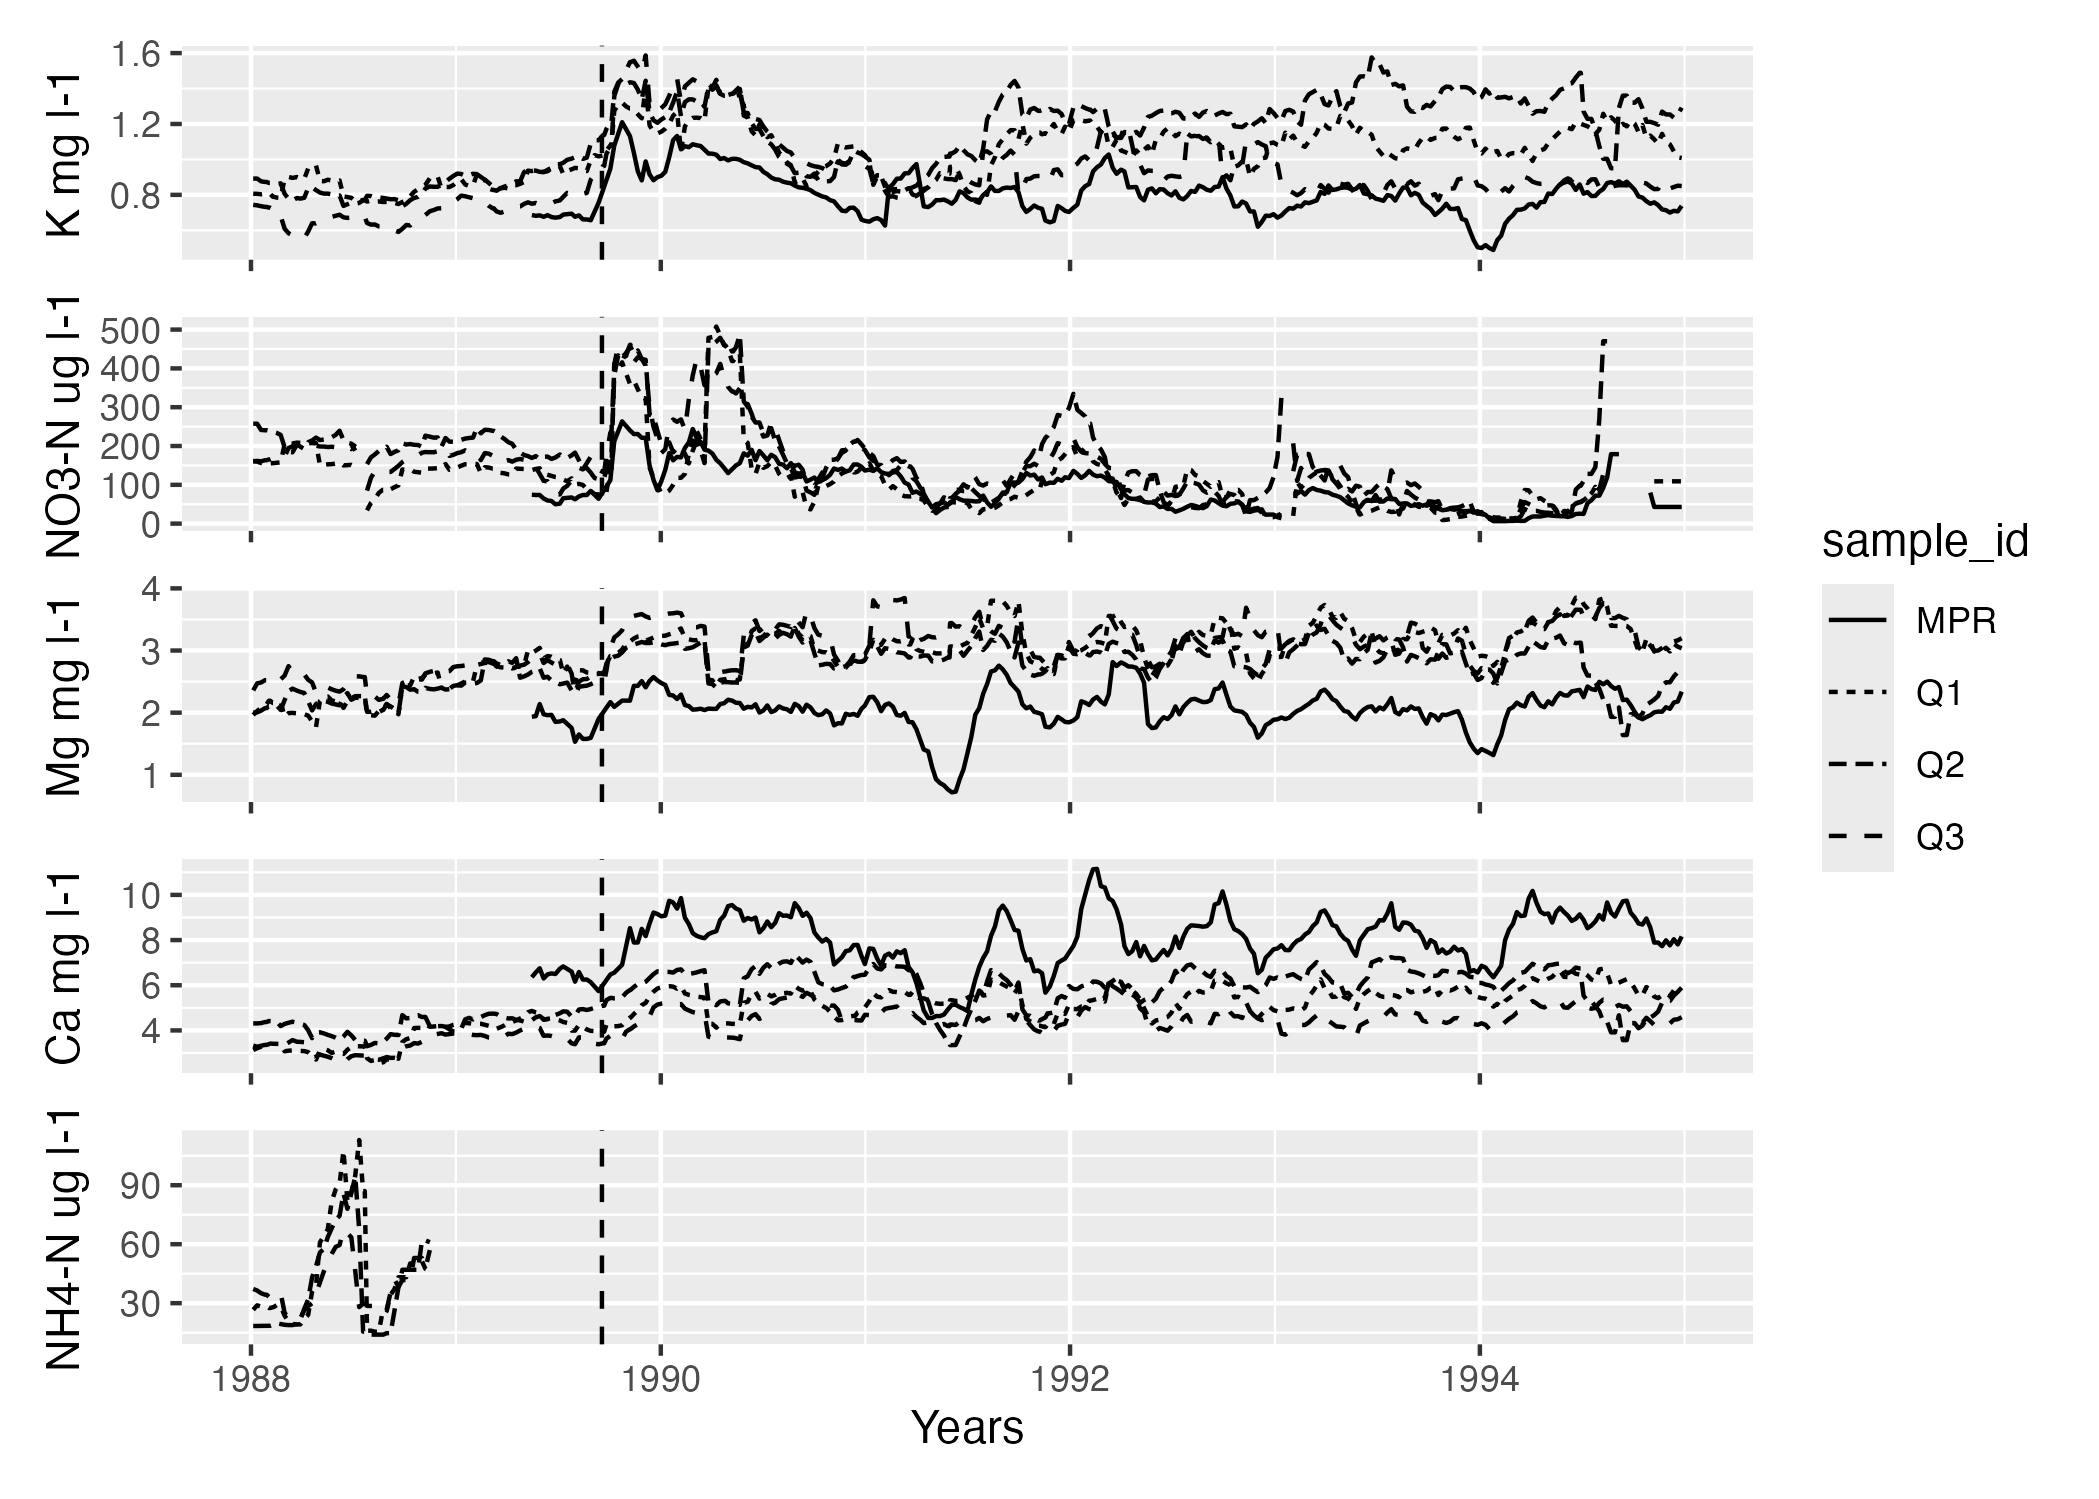
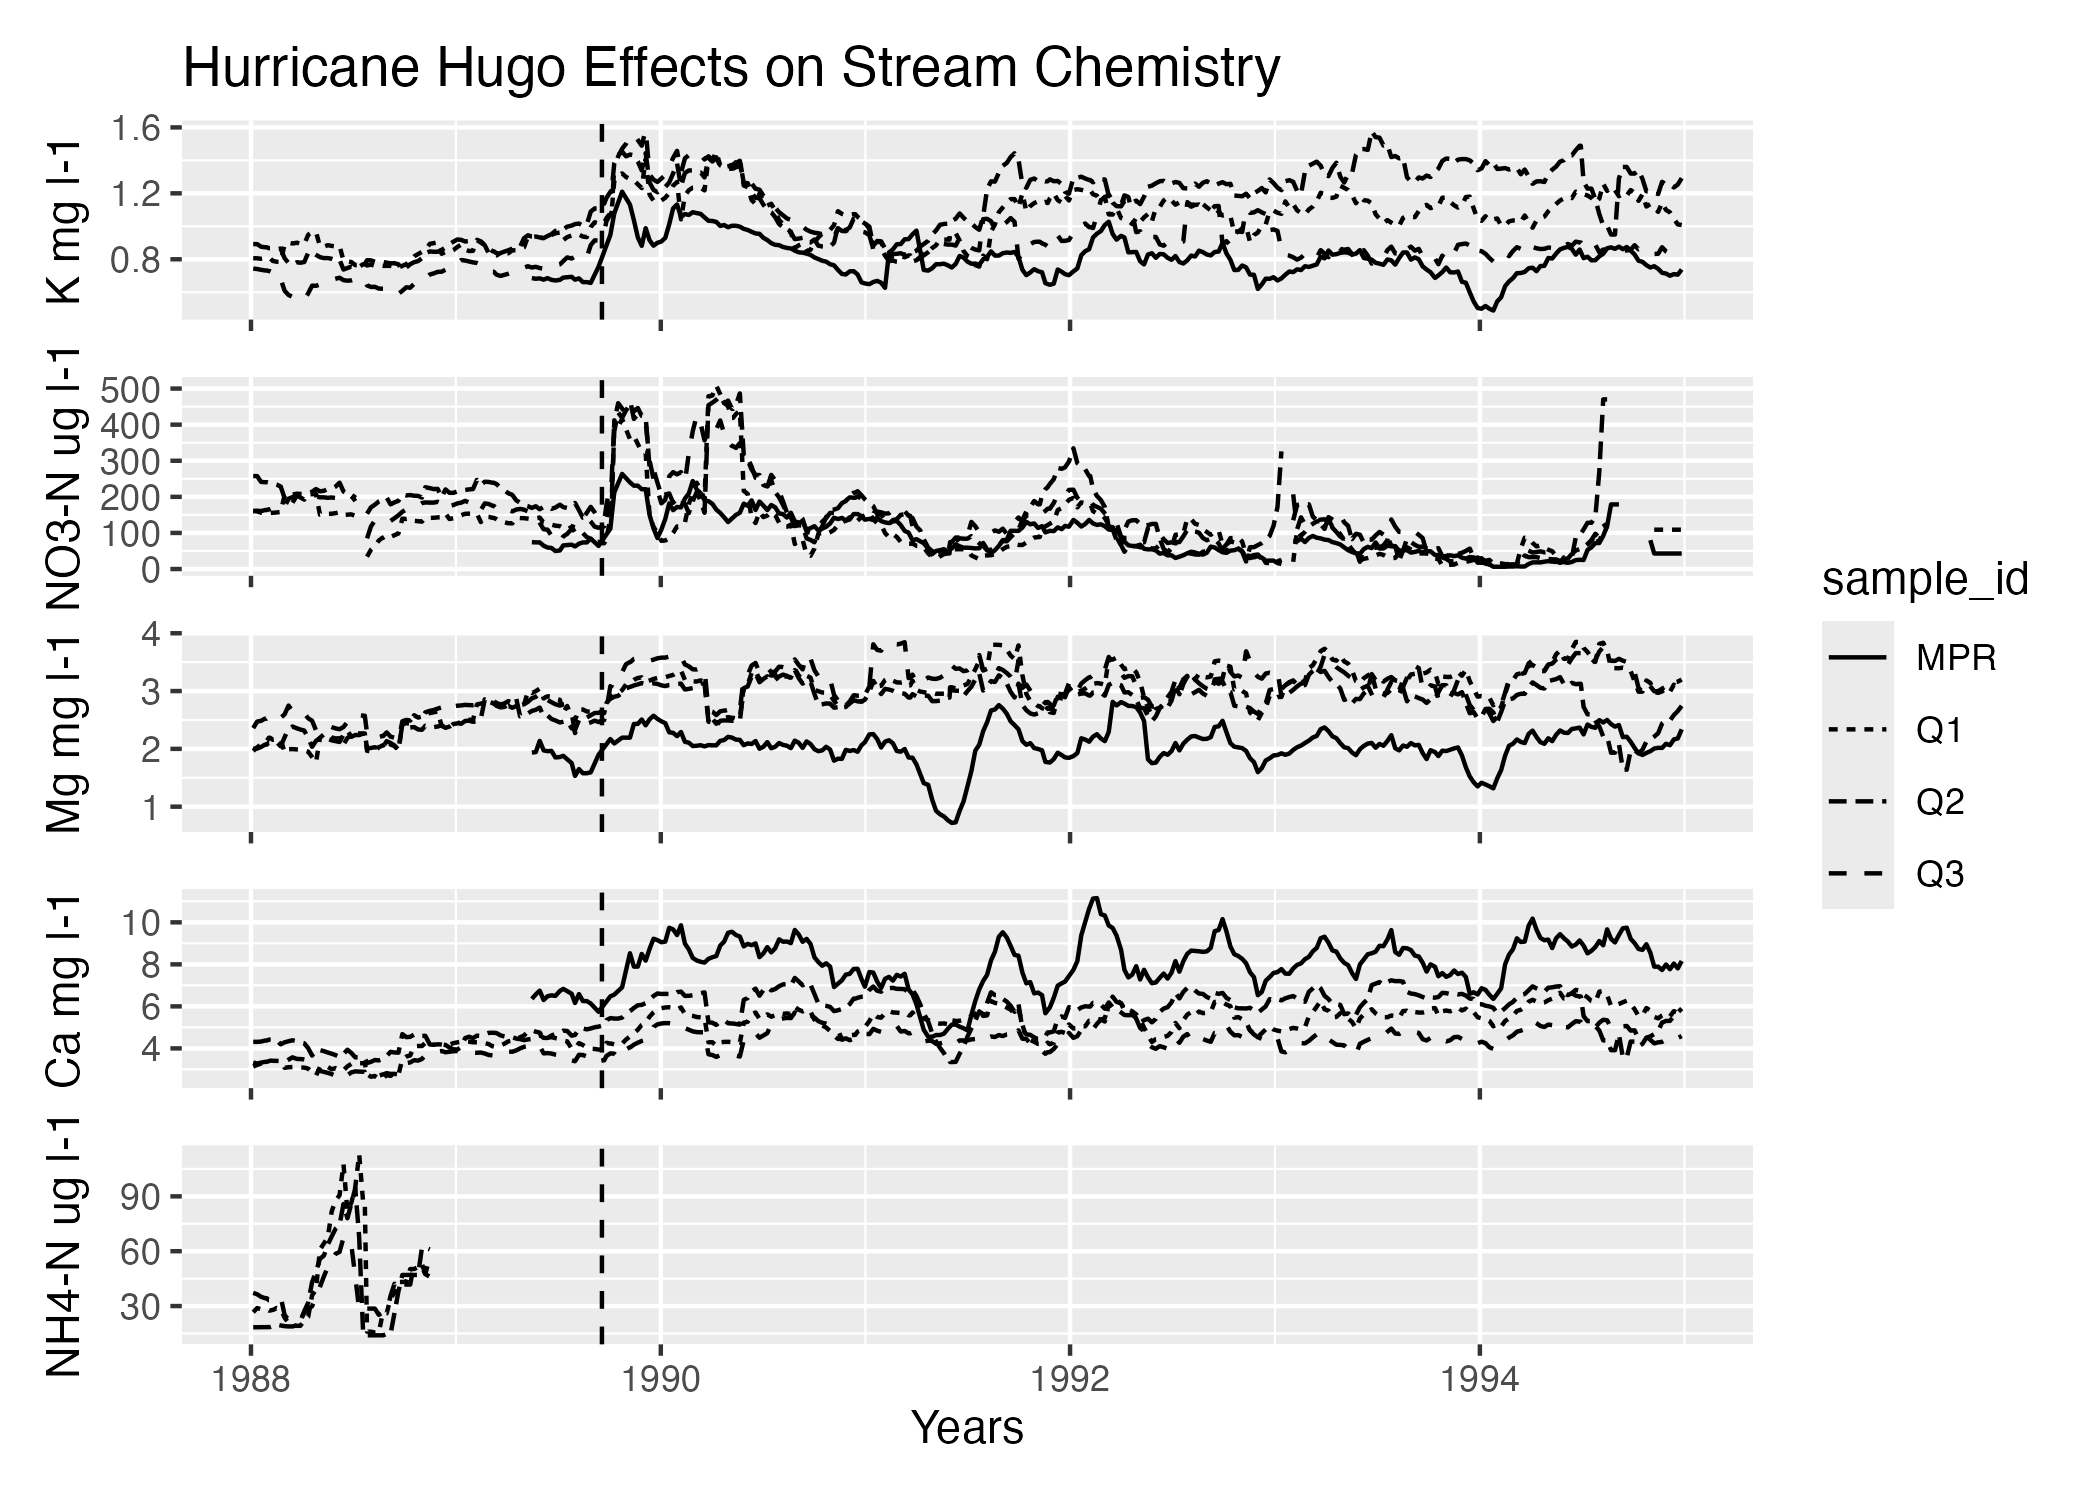
checking lubridate

diff --git a/docs/paper.html b/docs/paper.html
@@ -122,16 +122,71 @@ pre > code.sourceCode > span > a:first-child::before { text-decoration: underlin
 </section>
 <section id="results" class="level1">
 <h1>Results</h1>
+<p>NEED TO FIGURE OUT HOW TO MAKE MY GRAPH APPEAR</p>
 <div class="cell">
-<div class="sourceCode cell-code" id="cb2"><pre class="sourceCode r code-with-copy"><code class="sourceCode r"><span id="cb2-1"><a href="#cb2-1" aria-hidden="true" tabindex="-1"></a><span class="co">#show graph in quarto doc</span></span>
-<span id="cb2-2"><a href="#cb2-2" aria-hidden="true" tabindex="-1"></a><span class="fu">source</span>(here<span class="sc">::</span><span class="fu">here</span>(<span class="st">"R"</span>, <span class="st">"ggplotting.R"</span>))</span>
+<div class="sourceCode cell-code" id="cb2"><pre class="sourceCode r code-with-copy"><code class="sourceCode r"><span id="cb2-1"><a href="#cb2-1" aria-hidden="true" tabindex="-1"></a><span class="co">#creating a hurricane line</span></span>
+<span id="cb2-2"><a href="#cb2-2" aria-hidden="true" tabindex="-1"></a>hurricane <span class="ot">&lt;-</span> <span class="fu">as.Date</span>(<span class="st">"1989-09-18"</span>)</span>
 <span id="cb2-3"><a href="#cb2-3" aria-hidden="true" tabindex="-1"></a></span>
-<span id="cb2-4"><a href="#cb2-4" aria-hidden="true" tabindex="-1"></a>fig3 <span class="ot">&lt;-</span> k_plot <span class="sc">/</span> no3_n_plot <span class="sc">/</span> mg_plot <span class="sc">/</span> ca_plot <span class="sc">/</span> nh4_n_plot <span class="sc">+</span></span>
-<span id="cb2-5"><a href="#cb2-5" aria-hidden="true" tabindex="-1"></a>  <span class="fu">plot_layout</span>(<span class="at">guides =</span> <span class="st">'collect'</span>)</span>
-<span id="cb2-6"><a href="#cb2-6" aria-hidden="true" tabindex="-1"></a></span>
-<span id="cb2-7"><a href="#cb2-7" aria-hidden="true" tabindex="-1"></a><span class="fu">ggsave</span>(here<span class="sc">::</span><span class="fu">here</span>(<span class="st">"figs"</span>, <span class="st">"fig3.jpg"</span>))</span></code><button title="Copy to Clipboard" class="code-copy-button"><i class="bi"></i></button></pre></div>
+<span id="cb2-4"><a href="#cb2-4" aria-hidden="true" tabindex="-1"></a><span class="co"># ggplot of the moving  average k </span></span>
+<span id="cb2-5"><a href="#cb2-5" aria-hidden="true" tabindex="-1"></a>k_plot <span class="ot">&lt;-</span> <span class="fu">ggplot</span>(<span class="at">data =</span> mov_avg_k, <span class="fu">aes</span>(<span class="at">x =</span> sample_date, <span class="at">y =</span> mov_avg_k, <span class="at">linetype =</span> sample_id)) <span class="sc">+</span></span>
+<span id="cb2-6"><a href="#cb2-6" aria-hidden="true" tabindex="-1"></a>  <span class="fu">geom_line</span>() <span class="sc">+</span></span>
+<span id="cb2-7"><a href="#cb2-7" aria-hidden="true" tabindex="-1"></a>  <span class="fu">geom_vline</span>(<span class="at">xintercept =</span> hurricane, <span class="at">linetype =</span> <span class="st">"dashed"</span>) <span class="sc">+</span></span>
+<span id="cb2-8"><a href="#cb2-8" aria-hidden="true" tabindex="-1"></a>  <span class="fu">theme</span>(<span class="at">axis.title.x =</span> <span class="fu">element_blank</span>(),</span>
+<span id="cb2-9"><a href="#cb2-9" aria-hidden="true" tabindex="-1"></a>        <span class="at">axis.text.x =</span> <span class="fu">element_blank</span>()) <span class="sc">+</span></span>
+<span id="cb2-10"><a href="#cb2-10" aria-hidden="true" tabindex="-1"></a>  <span class="fu">labs</span>(<span class="at">title =</span> <span class="st">"Hurricane Hugo Effects on Stream Chemistry"</span>,</span>
+<span id="cb2-11"><a href="#cb2-11" aria-hidden="true" tabindex="-1"></a>       <span class="at">y =</span> <span class="st">"K mg |-1"</span>)</span>
+<span id="cb2-12"><a href="#cb2-12" aria-hidden="true" tabindex="-1"></a></span>
+<span id="cb2-13"><a href="#cb2-13" aria-hidden="true" tabindex="-1"></a><span class="co"># ggplot of the moving average NO3_N</span></span>
+<span id="cb2-14"><a href="#cb2-14" aria-hidden="true" tabindex="-1"></a>no3_n_plot <span class="ot">&lt;-</span> <span class="fu">ggplot</span>(<span class="at">data =</span> mov_avg_no3_n, <span class="fu">aes</span>(<span class="at">x =</span> sample_date, <span class="at">y =</span> mov_avg_no3_n, <span class="at">linetype =</span> sample_id)) <span class="sc">+</span></span>
+<span id="cb2-15"><a href="#cb2-15" aria-hidden="true" tabindex="-1"></a>  <span class="fu">geom_line</span>() <span class="sc">+</span></span>
+<span id="cb2-16"><a href="#cb2-16" aria-hidden="true" tabindex="-1"></a>  <span class="fu">geom_vline</span>(<span class="at">xintercept =</span> hurricane, <span class="at">linetype =</span> <span class="st">"dashed"</span>) <span class="sc">+</span></span>
+<span id="cb2-17"><a href="#cb2-17" aria-hidden="true" tabindex="-1"></a>  <span class="fu">theme</span>(<span class="at">axis.title.x =</span> <span class="fu">element_blank</span>(),</span>
+<span id="cb2-18"><a href="#cb2-18" aria-hidden="true" tabindex="-1"></a>        <span class="at">axis.text.x =</span> <span class="fu">element_blank</span>()) <span class="sc">+</span></span>
+<span id="cb2-19"><a href="#cb2-19" aria-hidden="true" tabindex="-1"></a>  <span class="fu">labs</span>(<span class="at">y =</span> <span class="st">"NO3-N ug |-1"</span>)</span>
+<span id="cb2-20"><a href="#cb2-20" aria-hidden="true" tabindex="-1"></a></span>
+<span id="cb2-21"><a href="#cb2-21" aria-hidden="true" tabindex="-1"></a><span class="co"># ggplot of the moving average NO3_N</span></span>
+<span id="cb2-22"><a href="#cb2-22" aria-hidden="true" tabindex="-1"></a>mg_plot <span class="ot">&lt;-</span> <span class="fu">ggplot</span>(<span class="at">data =</span> mov_avg_mg, <span class="fu">aes</span>(<span class="at">x =</span> sample_date, <span class="at">y =</span> mov_avg_mg, <span class="at">linetype =</span> sample_id)) <span class="sc">+</span></span>
+<span id="cb2-23"><a href="#cb2-23" aria-hidden="true" tabindex="-1"></a>  <span class="fu">geom_line</span>() <span class="sc">+</span></span>
+<span id="cb2-24"><a href="#cb2-24" aria-hidden="true" tabindex="-1"></a>  <span class="fu">geom_vline</span>(<span class="at">xintercept =</span> hurricane, <span class="at">linetype =</span> <span class="st">"dashed"</span>) <span class="sc">+</span></span>
+<span id="cb2-25"><a href="#cb2-25" aria-hidden="true" tabindex="-1"></a>  <span class="fu">theme</span>(<span class="at">axis.title.x =</span> <span class="fu">element_blank</span>(),</span>
+<span id="cb2-26"><a href="#cb2-26" aria-hidden="true" tabindex="-1"></a>        <span class="at">axis.text.x =</span> <span class="fu">element_blank</span>()) <span class="sc">+</span></span>
+<span id="cb2-27"><a href="#cb2-27" aria-hidden="true" tabindex="-1"></a>  <span class="fu">labs</span>(<span class="at">y =</span> <span class="st">"Mg mg |-1"</span>)</span>
+<span id="cb2-28"><a href="#cb2-28" aria-hidden="true" tabindex="-1"></a></span>
+<span id="cb2-29"><a href="#cb2-29" aria-hidden="true" tabindex="-1"></a><span class="co"># ggplot of the moving average NO3_N</span></span>
+<span id="cb2-30"><a href="#cb2-30" aria-hidden="true" tabindex="-1"></a>ca_plot <span class="ot">&lt;-</span> <span class="fu">ggplot</span>(<span class="at">data =</span> mov_avg_ca, <span class="fu">aes</span>(<span class="at">x =</span> sample_date, <span class="at">y =</span> mov_avg_ca, <span class="at">linetype =</span> sample_id)) <span class="sc">+</span></span>
+<span id="cb2-31"><a href="#cb2-31" aria-hidden="true" tabindex="-1"></a>  <span class="fu">geom_line</span>() <span class="sc">+</span></span>
+<span id="cb2-32"><a href="#cb2-32" aria-hidden="true" tabindex="-1"></a>  <span class="fu">geom_vline</span>(<span class="at">xintercept =</span> hurricane, <span class="at">linetype =</span> <span class="st">"dashed"</span>) <span class="sc">+</span></span>
+<span id="cb2-33"><a href="#cb2-33" aria-hidden="true" tabindex="-1"></a>  <span class="fu">theme</span>(<span class="at">axis.title.x =</span> <span class="fu">element_blank</span>(),</span>
+<span id="cb2-34"><a href="#cb2-34" aria-hidden="true" tabindex="-1"></a>        <span class="at">axis.text.x =</span> <span class="fu">element_blank</span>()) <span class="sc">+</span></span>
+<span id="cb2-35"><a href="#cb2-35" aria-hidden="true" tabindex="-1"></a>  <span class="fu">labs</span>(<span class="at">y =</span> <span class="st">"Ca mg |-1"</span>)</span>
+<span id="cb2-36"><a href="#cb2-36" aria-hidden="true" tabindex="-1"></a></span>
+<span id="cb2-37"><a href="#cb2-37" aria-hidden="true" tabindex="-1"></a><span class="co"># ggplot of the moving average NH4_N</span></span>
+<span id="cb2-38"><a href="#cb2-38" aria-hidden="true" tabindex="-1"></a>nh4_n_plot <span class="ot">&lt;-</span> <span class="fu">ggplot</span>(<span class="at">data =</span> mov_avg_nh4_n, <span class="fu">aes</span>(<span class="at">x =</span> sample_date, <span class="at">y =</span> mov_avg_nh4_n, <span class="at">linetype =</span> sample_id)) <span class="sc">+</span></span>
+<span id="cb2-39"><a href="#cb2-39" aria-hidden="true" tabindex="-1"></a>  <span class="fu">geom_line</span>() <span class="sc">+</span></span>
+<span id="cb2-40"><a href="#cb2-40" aria-hidden="true" tabindex="-1"></a>  <span class="fu">geom_vline</span>(<span class="at">xintercept =</span> hurricane, <span class="at">linetype =</span> <span class="st">"dashed"</span>) <span class="sc">+</span></span>
+<span id="cb2-41"><a href="#cb2-41" aria-hidden="true" tabindex="-1"></a>  <span class="fu">labs</span>(<span class="at">x =</span> <span class="st">"Years"</span>,</span>
+<span id="cb2-42"><a href="#cb2-42" aria-hidden="true" tabindex="-1"></a>       <span class="at">y =</span> <span class="st">"NH4-N ug |-1"</span>)</span>
+<span id="cb2-43"><a href="#cb2-43" aria-hidden="true" tabindex="-1"></a></span>
+<span id="cb2-44"><a href="#cb2-44" aria-hidden="true" tabindex="-1"></a>fig3 <span class="ot">&lt;-</span> k_plot <span class="sc">/</span> no3_n_plot <span class="sc">/</span> mg_plot <span class="sc">/</span> ca_plot <span class="sc">/</span> nh4_n_plot <span class="sc">+</span></span>
+<span id="cb2-45"><a href="#cb2-45" aria-hidden="true" tabindex="-1"></a> <span class="fu">plot_layout</span>(<span class="at">guides =</span> <span class="st">'collect'</span>)</span>
+<span id="cb2-46"><a href="#cb2-46" aria-hidden="true" tabindex="-1"></a></span>
+<span id="cb2-47"><a href="#cb2-47" aria-hidden="true" tabindex="-1"></a><span class="fu">ggsave</span>(here<span class="sc">::</span><span class="fu">here</span>(<span class="st">"figs"</span>, <span class="st">"fig3.png"</span>))</span>
+<span id="cb2-48"><a href="#cb2-48" aria-hidden="true" tabindex="-1"></a></span>
+<span id="cb2-49"><a href="#cb2-49" aria-hidden="true" tabindex="-1"></a>fig3</span></code><button title="Copy to Clipboard" class="code-copy-button"><i class="bi"></i></button></pre></div>
+<div class="cell-output-display">
+<div>
+<figure class="figure">
+<p><img src="paper_files/figure-html/unnamed-chunk-5-1.png" class="img-fluid figure-img" width="672"></p>
+</figure>
 </div>
-<p>Figure 3. Concentrations of potassium (k), nitrate-N, magnesium (mg), calcium (ca), and ammonium-N (Nh4-n) in four streams in the Loquillo Mountain Watershed. The The vertical lines indicate hurricane Hugo.</p>
+</div>
+<div class="sourceCode cell-code" id="cb3"><pre class="sourceCode r code-with-copy"><code class="sourceCode r"><span id="cb3-1"><a href="#cb3-1" aria-hidden="true" tabindex="-1"></a><span class="co">#show graph in quarto doc</span></span>
+<span id="cb3-2"><a href="#cb3-2" aria-hidden="true" tabindex="-1"></a><span class="co">#source(here::here("R", "ggplotting.R"))</span></span>
+<span id="cb3-3"><a href="#cb3-3" aria-hidden="true" tabindex="-1"></a></span>
+<span id="cb3-4"><a href="#cb3-4" aria-hidden="true" tabindex="-1"></a></span>
+<span id="cb3-5"><a href="#cb3-5" aria-hidden="true" tabindex="-1"></a><span class="co">#ggsave(here::here("figs", "fig3.jpg"))</span></span></code><button title="Copy to Clipboard" class="code-copy-button"><i class="bi"></i></button></pre></div>
+</div>
+<p>Figure 3. Concentrations of potassium (k), nitrate-N, magnesium (mg), calcium (ca), and ammonium-N (Nh4-n) in four streams in the Loquillo Mountain Watershed. The vertical lines indicate hurricane Hugo, the event of study.</p>
 </section>
 
 </main>
